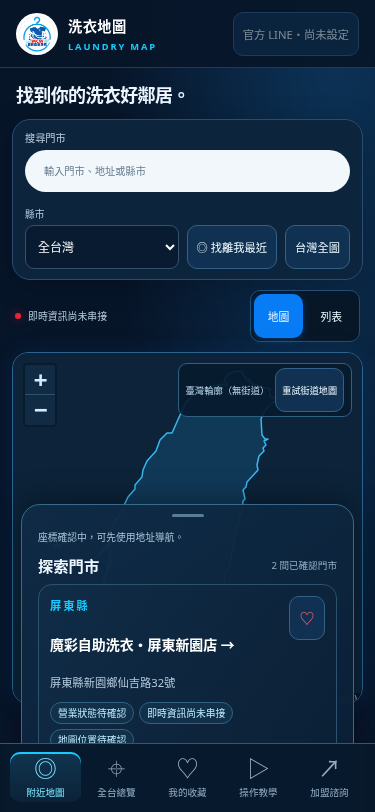
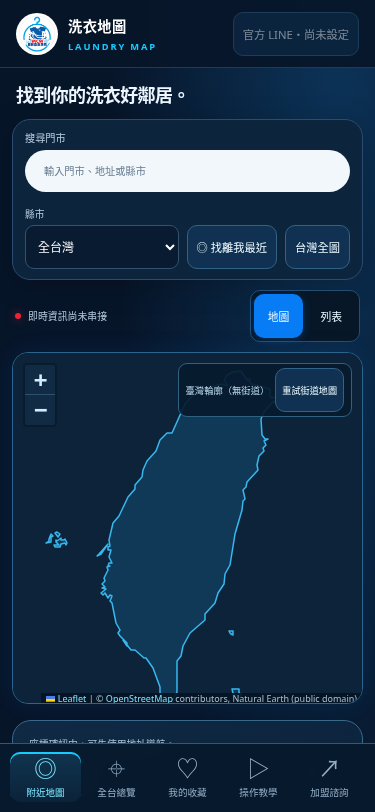
fix: keep phone store cards below the map

diff --git a/laundry-map/src/style.css b/laundry-map/src/style.css
@@ -1112,20 +1112,19 @@ header {
   }
   .map-page .store-list {
     position: relative;
-    z-index: 600;
-    margin: -112px 9px 0;
+    z-index: auto;
+    margin: 16px 0 0;
     padding: 16px;
     background: linear-gradient(145deg, #102b46f5, #081c32fc);
     border: 1px solid #396a8a;
     border-radius: 19px;
-    box-shadow: 0 -5px 30px #0005;
-    max-height: 420px;
-    overflow-y: auto;
-    overscroll-behavior: contain;
+    box-shadow: none;
+    max-height: none;
+    overflow: visible;
   }
   .map-page .store-list:before {
-    content: "";
-    display: block;
+    content: none;
+    display: none;
     width: 32px;
     height: 3px;
     border-radius: 4px;
@@ -1507,7 +1506,7 @@ html {
 }
 @media (max-width: 700px) {
   .map-page .map-layout:not(.list-mode) .store-list {
-    margin-top: -200px;
+    margin-top: 16px;
   }
   .store-list .location-note {
     font-size: 0.65rem;

diff --git a/laundry-map/README.md b/laundry-map/README.md
@@ -97,3 +97,5 @@ NODE_ENV=production DATA_DIR=/persistent/mcw npm start
 ## 部署站地址定位
 
 在 Render 設定 `GEOCODE_ON_START=true` 後重新部署，伺服器會使用 Nominatim 對兩家使用者提供的地址各查詢一次，間隔至少 1.1 秒，且不阻擋網站啟動。只有縣市、路名、門牌均相符且結果唯一時才保存座標；失敗或歧義不建立標記。查詢紀錄保存在資料庫，避免每次啟動重複請求。免費版儲存空間重建後紀錄也會消失，因此定位完成後建議關閉此開關，並將確認座標另行保存。第三方查詢可能沒有該門牌資料；測試使用隔離測試回應，不代表兩家真實座標已查得。
+
+手機地圖與門市列表採不重疊配置：地圖模式的卡片位於地圖下方；切換「列表」可直接查看門市。瀏覽器驗收會檢查兩區的實際邊界，避免卡片再次遮住地圖。
